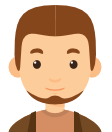
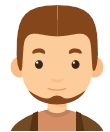
fix: #3 size of founders pictures

diff --git a/index.html b/index.html
@@ -59,22 +59,22 @@
           </p>  
           <h3>Les fondateurs</h3>
           <div class="row d-flex justify-content-around">            
-            <div class="card col-3">
-              <img src="images/founders/pauline.png" class="card-img-top" alt="...">
+            <div class="card col-4">
+              <img src="images/founders/pauline.png" class="card-img-top img-founder" alt="...">
               <div class="card-body">
                 <h5 class="card-title">Pauline</h5>
                 <h6 class="card-subtitle mb-2 text-muted">Co-fondatrice</h6>
               </div>
             </div>
-            <div class="card col-3">
-              <img src="images/founders/alexandre.png" class="card-img-top" alt="...">
+            <div class="card col-4">
+              <img src="images/founders/alexandre.png" class="card-img-top img-founder" alt="...">
               <div class="card-body">
                 <h5 class="card-title">Alexandre</h5>
                 <h6 class="card-subtitle mb-2 text-muted">Co-fondateur</h6>
               </div>
             </div>
-            <div class="card col-3">
-              <img src="images/founders/coralie.png" class="card-img-top" alt="...">
+            <div class="card col-4">
+              <img src="images/founders/coralie.png" class="card-img-top img-founder" alt="...">
               <div class="card-body">
                 <h5 class="card-title">Coralie</h5>
                 <h6 class="card-subtitle mb-2 text-muted">Co-fondatrice</h6>

diff --git a/styles/style.css b/styles/style.css
@@ -1,4 +1,4 @@
-/* This css files only modifies few arguments of bootstrap classes*/
+/* Following CSS only modifies few arguments of bootstrap classes*/
 
 .carousel-control-prev-icon,
 .carousel-control-next-icon {
@@ -13,4 +13,15 @@
 .carousel-control-prev,
 .carousel-control-next {
   opacity: 0.5;
+}
+
+
+/* Additionnal CSS */
+
+.img-founder {
+  object-fit: contain;
+  max-width: 130px;
+  max-height: 110px;
+  width: auto;
+  height: auto;
 }
